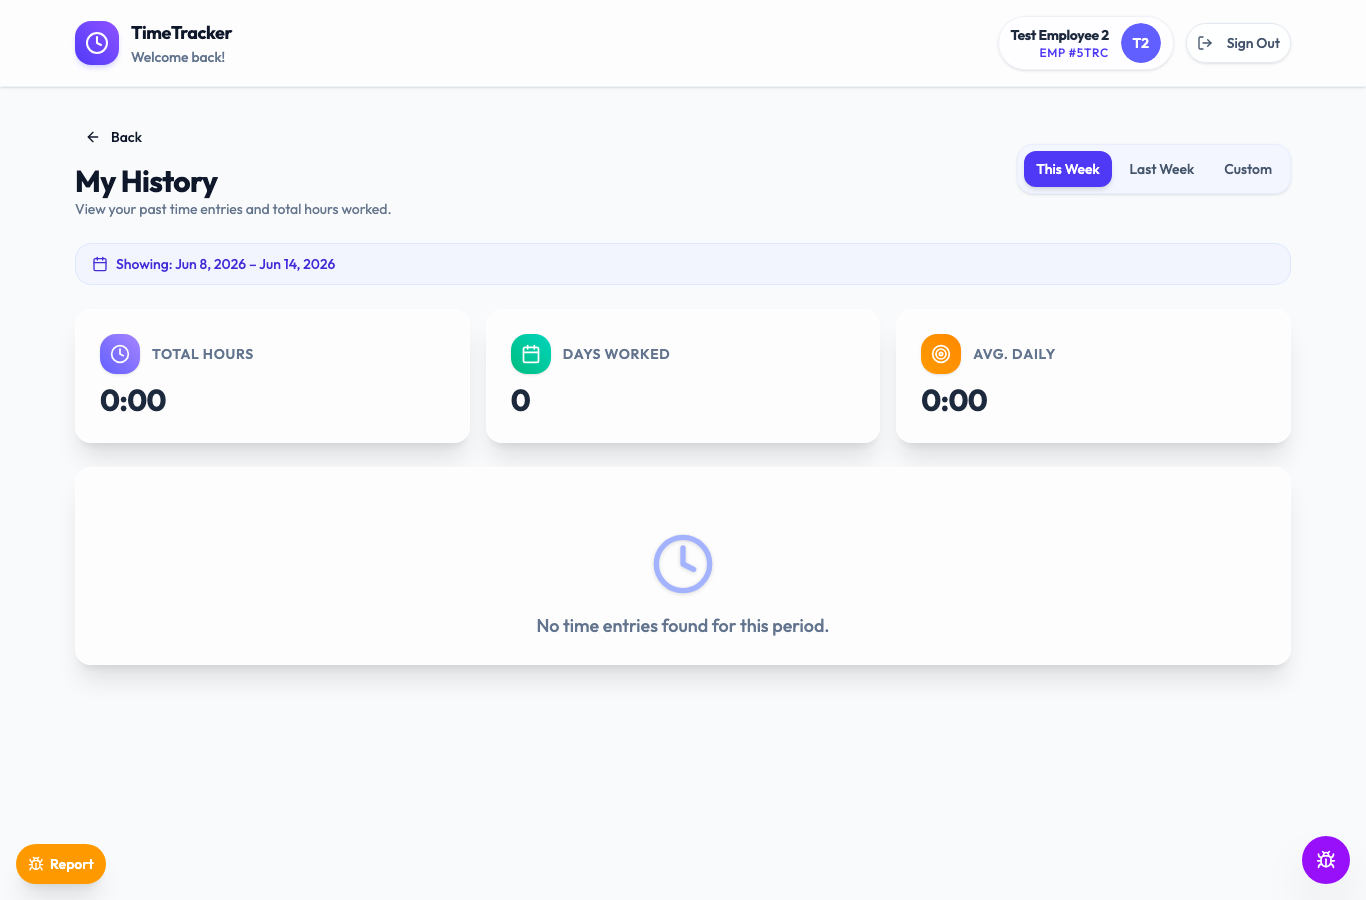
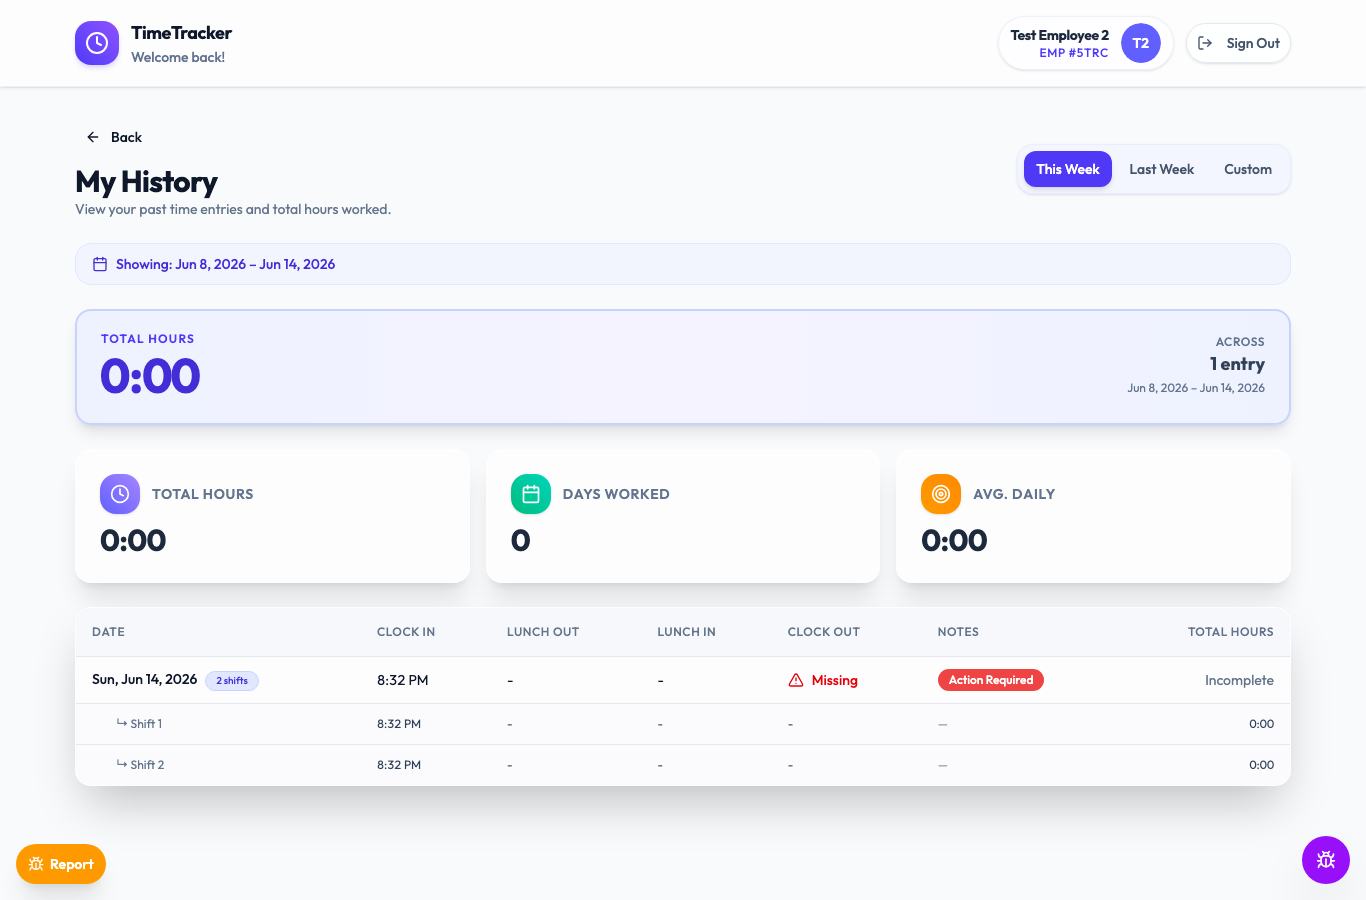
fix(clock-in+lunch+clock-out): real production bugs found by live Playwright
This is the bug that was killing pilot testing. Three distinct failures
surfaced when driving the live app at atd-time-tracking.web.app with real
Firebase Auth + Firestore + the seeded test user.

(1) CLOCK IN: 'Unsupported field value: undefined' on timeEntries
   Cause: createInitialSegment set 'taskId: taskId || undefined' and the
   punchIn payload set 'createdAt: snap.data().createdAt' (undefined
   when the doc exists but lacks the field). Firestore rejects the whole
   write on any undefined value.

(2) LUNCH START/END + CLOCK OUT: same undefined error
   Cause: mapEntry's segment hydration used 'taskId: data.taskId || undefined'
   and 'clockInManual: data.clockInManual || undefined' etc. When the
   hydrated entry was round-tripped through toggleLunch/punchOut's
   updateDoc({ segments: ... }), the archived segments (with inherited
   undefined fields) poisoned the write.

(3) Segments array grows by 1 per round-trip
   Cause: historical data (and newer writes that round-trip through
   mapEntry) accumulated multiple '${id}_current' segments. Every
   subsequent toggleLunch/punchOut read the bloated array and wrote it
   back with yet another copy, growing it by 1 per click. The
   'isIn' check then saw the LAST segment (which was complete=true
   from a prior clock-out), so the UI incorrectly showed 'CLOCK IN'
   even when the user was actually still clocked in.

Fixes:
- createInitialSegment omits taskId when not provided
[…]

Changed region(s): [[0.0615, 0.3422, 0.9531, 0.8089], [0.0615, 0.84, 0.9531, 0.9022], [0.8302, 0.3733, 0.9224, 0.4356]]

diff --git a/src/app/lib/database.ts b/src/app/lib/database.ts
@@ -1,6 +1,7 @@
 import { collection, doc, getDoc, getDocs, orderBy, query, Timestamp, updateDoc, where, limit, startAfter, deleteDoc, addDoc, setDoc } from 'firebase/firestore';
 import { db } from './firebase';
 import type { User } from './auth';
+import { stripUndefined } from './segmentOps';
 
 /**
  * A single continuous work session ("shift"). A day may contain multiple
@@ -182,43 +183,77 @@ function mapEntry(id: string, data: FirestoreTimeEntry): TimeEntry {
   // or most-recently-completed) segment lives in the legacy top-level fields.
   // Hydrated entry.segments = [...archived, current (if present)].
   const archivedRaw = Array.isArray(data.segments) ? data.segments : [];
-  const archived: TimeSegment[] = archivedRaw.map((s: any, i: number) => ({
-    id: String(s.id ?? `${id}_arch_${i}`),
-    clockInManual: s.clockInManual || undefined,
-    clockInSystem: tsToMillis(s.clockInSystemTime ?? s.clockInSystem),
-    lunchOutManual: s.lunchOutManual || undefined,
-    lunchOutSystem: tsToMillis(s.lunchOutSystemTime ?? s.lunchOutSystem),
-    lunchInManual: s.lunchInManual || undefined,
-    lunchInSystem: tsToMillis(s.lunchInSystemTime ?? s.lunchInSystem),
-    clockOutManual: s.clockOutManual || undefined,
-    clockOutSystem: tsToMillis(s.clockOutSystemTime ?? s.clockOutSystem),
-    skipLunch: s.skipLunch === true || s.lunchSkipped === true,
-    workMinutes: typeof s.workMinutes === 'number' ? s.workMinutes : undefined,
-    complete: true,
-    taskId: s.taskId || undefined,
-    autoClosed: s.autoClosed === true,
-  }));
+  const archived: TimeSegment[] = archivedRaw.map((s: any, i: number) => {
+    const out: TimeSegment = {
+      id: String(s.id ?? `${id}_arch_${i}`),
+      clockInManual: s.clockInManual || undefined,
+      clockInSystem: tsToMillis(s.clockInSystemTime ?? s.clockInSystem),
+      lunchOutManual: s.lunchOutManual || undefined,
+      lunchOutSystem: tsToMillis(s.lunchOutSystemTime ?? s.lunchOutSystem),
+      lunchInManual: s.lunchInManual || undefined,
+      lunchInSystem: tsToMillis(s.lunchInSystemTime ?? s.lunchInSystem),
+      clockOutManual: s.clockOutManual || undefined,
+      clockOutSystem: tsToMillis(s.clockOutSystemTime ?? s.clockOutSystem),
+      skipLunch: s.skipLunch === true || s.lunchSkipped === true,
+      workMinutes: typeof s.workMinutes === 'number' ? s.workMinutes : undefined,
+      complete: true,
+      autoClosed: s.autoClosed === true,
+    };
+    if (s.taskId) (out as any).taskId = s.taskId; // omit when not set; never write undefined
+    return out;
+  });
 
   const current: TimeSegment | null = entry.clockInManual
-    ? {
-        id: `${id}_current`,
-        clockInManual: entry.clockInManual,
-        clockInSystem: entry.clockInSystem,
-        lunchOutManual: entry.lunchOutManual,
-        lunchOutSystem: entry.lunchOutSystem,
-        lunchInManual: entry.lunchInManual,
-        lunchInSystem: entry.lunchInSystem,
-        clockOutManual: entry.clockOutManual,
-        clockOutSystem: entry.clockOutSystem,
-        skipLunch: entry.skipLunch,
-        workMinutes: deriveCurrentSegmentMinutes(entry, archived),
-        complete: !!entry.clockOutManual,
-        taskId: data.taskId || undefined,
-        autoClosed: data.autoClosed === true,
-      }
+    ? (() => {
+        // Build the current segment WITHOUT undefined fields. Firestore rejects
+        // any field with value `undefined`; if this segment is later written
+        // back to the document (e.g. via toggleLunch's updateDoc), the whole
+        // write fails. We use stripUndefined on the entry-derived fields then
+        // force-include the always-present ones.
+        const fromEntry: any = {
+          clockInManual: entry.clockInManual,
+          clockInSystem: entry.clockInSystem,
+          lunchOutManual: entry.lunchOutManual,
+          lunchOutSystem: entry.lunchOutSystem,
+          lunchInManual: entry.lunchInManual,
+          lunchInSystem: entry.lunchInSystem,
+          clockOutManual: entry.clockOutManual,
+          clockOutSystem: entry.clockOutSystem,
+          skipLunch: entry.skipLunch,
+          workMinutes: deriveCurrentSegmentMinutes(entry, archived),
+        };
+        const out: TimeSegment = {
+          id: `${id}_current`,
+          complete: !!entry.clockOutManual,
+          autoClosed: data.autoClosed === true,
+          ...stripUndefined(fromEntry),
+        };
+        if (data.taskId) (out as any).taskId = data.taskId; // omit when not set
+        return out;
+      })()
     : null;
 
-  entry.segments = current ? [...archived, current] : archived;
+  // DEDUP: historical data has accumulated multiple `${id}_current` segments
+  // because older versions of the code (and writes that round-trip through this
+  // same mapEntry) appended a new current segment on every read. If we keep all
+  // of them, every subsequent write to `segments` grows the array by one copy,
+  // and Firestore's "no undefined" check fires because some legacy segments
+  // don't have the fields our newer code expects. Keep only one segment per id,
+  // preferring the LAST occurrence (most recent data).
+  const dedup = (segs: TimeSegment[]): TimeSegment[] => {
+    const byId = new Map<string, TimeSegment>();
+    for (const s of segs) byId.set(s.id, s);
+    return Array.from(byId.values());
+  };
+
+  if (current) {
+    // Remove any pre-existing _current segment from the archived list (legacy data
+    // may have it there), then append the fresh one.
+    const archivedClean = archived.filter((s) => s.id !== `${id}_current`);
+    entry.segments = dedup([...archivedClean, current]);
+  } else {
+    entry.segments = dedup(archived);
+  }
 
   // Override day-level hours to include all archived segments too.
   if (archived.length > 0) {

diff --git a/src/services/clockService.ts b/src/services/clockService.ts
@@ -150,7 +150,7 @@ export async function punchOut(userId: string): Promise<TimeEntry> {
 
   // Write closed legacy + replace the open segment in the array with the closed one
   const archived = (pre?.segments || []).filter((s) => s.id !== active.id);
-  const finalSegments = [...archived, closedSeg];
+  const finalSegments = [...archived, closedSeg].map((s) => stripUndefined(s as any));
 
   await updateDoc(doc(db, 'timeEntries', entryId), {
     clockOutManual: ptTime,
@@ -210,7 +210,7 @@ export async function toggleLunch(userId: string, skip = false): Promise<TimeEnt
 
   // Rebuild segments array with the updated one
   const newSegments = (pre?.segments || []).map((s) =>
-    s.id === active.id ? updatedSeg : s
+    s.id === active.id ? stripUndefined(updatedSeg as any) : stripUndefined(s as any)
   );
   patch.segments = newSegments;
 

diff --git a/test-artifacts/e2e_live.py b/test-artifacts/e2e_live.py
@@ -1,0 +1,178 @@
+"""End-to-end: full shift → history → payroll report with real data.
+
+Drives the ClockPunch UI through the entire shift:
+  1. Log in as employee2, clock in
+  2. Start lunch, end lunch
+  3. Clock out
+  4. Verify History view shows the completed entry
+  5. Log out, log in as admin, generate a payroll report for the current week
+  6. Verify the report shows employee2's hours
+"""
+from __future__ import annotations
+import json, sys, time
+from pathlib import Path
+from playwright.sync_api import sync_playwright, TimeoutError as PWTimeout
+
+ART = Path(__file__).parent
+SHOTS = ART / "e2e"
+SHOTS.mkdir(exist_ok=True)
+BASE = "https://atd-time-tracking.web.app"
+RESULTS = {"passed": 0, "failed": 0, "results": []}
+
+def rec(name, passed, detail="", shot=None):
+    status = "PASS" if passed else "FAIL"
+    RESULTS["results"].append({"name": name, "status": status, "detail": detail, "screenshot": shot})
+    RESULTS["passed" if passed else "failed"] += 1
+    print(f"  {status} | {name} -- {detail}")
+
+def login(page, email, password):
+    page.goto(BASE, wait_until="load", timeout=30000)
+    time.sleep(2)
+    # If already signed in (no email input visible), sign out first
+    if page.locator("input[type='email']").count() == 0:
+        try:
+            page.get_by_role("button", name="Sign Out").first.click(timeout=5000)
+            time.sleep(3)
+        except Exception:
+            pass
+    page.wait_for_selector("input[type='email']", timeout=15000)
+    page.fill("input[type='email']", email)
+    page.fill("input[type='password']", password)
+    page.click("button[type='submit']")
+    page.wait_for_function(
+        "() => !document.querySelector('input[type=\"email\"]')",
+        timeout=20000,
+    )
+    time.sleep(2)
+
+def run():
+    with sync_playwright() as p:
+        br = p.chromium.launch(headless=True)
+        ctx = br.new_context(viewport={"width": 1366, "height": 900})
+        page = ctx.new_page()
+        errs = []
+        page.on("pageerror", lambda e: errs.append(str(e)[:300]))
+
+        print("\n========== EMPLOYEE: full shift ==========")
+        login(page, "employee2@test.com", "Test123!")
+        # If already clocked in (from prior test), clock out first
+        try:
+            clock_out_btn = page.get_by_role("button", name="CLOCK OUT")
+            if clock_out_btn.count() > 0:
+                clock_out_btn.first.click(timeout=5000)
+                time.sleep(3)
+        except Exception:
+            pass
+        # Click CLOCK IN
+        try:
+            page.get_by_role("button", name="CLOCK IN").first.click(timeout=10000)
+            time.sleep(3)
+        except Exception as e:
+            rec("CLOCK IN click", False, f"exception: {e}")
+        shot = "01_after_clock_in.png"
+        page.screenshot(path=str(SHOTS / shot), full_page=True)
+        rec("CLOCK IN", page.locator("text=CLOCKED IN").count() > 0, "status pill", shot)
+
+        # Start lunch
+        try:
+            page.get_by_role("button", name="START LUNCH").first.click(timeout=5000)
+            time.sleep(3)
+            shot = "02_lunch_started.png"
+            page.screenshot(path=str(SHOTS / shot), full_page=True)
+            rec("START LUNCH", page.locator("text=ON LUNCH").count() > 0 or page.locator("text=CLOCKED IN").count() > 0, "lunch state", shot)
+        except Exception as e:
+            rec("START LUNCH", False, f"button not found: {e}")
+
+        # End lunch
+        try:
+            page.get_by_role("button", name="END LUNCH").first.click(timeout=5000)
+            time.sleep(3)
+            shot = "03_lunch_ended.png"
+            page.screenshot(path=str(SHOTS / shot), full_page=True)
+            rec("END LUNCH", True, "clicked", shot)
+        except Exception as e:
+            rec("END LUNCH", False, f"exception: {e}")
+
+        # Clock out
+        try:
+            page.get_by_role("button", name="CLOCK OUT").first.click(timeout=5000)
+            time.sleep(3)
+            shot = "04_after_clock_out.png"
+            page.screenshot(path=str(SHOTS / shot), full_page=True)
+            rec("CLOCK OUT", True, "clicked", shot)
+        except Exception as e:
+            rec("CLOCK OUT", False, f"exception: {e}")
+
+        # View history
+        try:
+            page.get_by_role("button", name="View Full History").first.click(timeout=5000)
+            time.sleep(3)
+            shot = "05_history.png"
+            page.screenshot(path=str(SHOTS / shot), full_page=True)
+            # Look for today's date row
+            today_text = page.locator("body").inner_text()
+            rec("History view renders", "Today" in today_text or "History" in today_text, "history loaded", shot)
+        except Exception as e:
+            rec("History view", False, f"exception: {e}")
+
+        rec("No page errors during full shift", len(errs) == 0, f"errors={len(errs)}")
+
+        # Now log out + log in as admin
+        print("\n========== ADMIN: payroll with the new entry ==========")
+        page.goto(BASE, wait_until="load", timeout=20000)
+        time.sleep(2)
+        try:
+            page.get_by_role("button", name="Sign Out").first.click(timeout=5000)
+            time.sleep(3)
+        except Exception:
+            pass
+        login(page, "admin@test.com", "Test123!")
+
+        # Go to Payroll
+        page.get_by_role("tab", name="Payroll").first.click()
+        time.sleep(3)
+        shot = "06_payroll_initial.png"
+        page.screenshot(path=str(SHOTS / shot), full_page=True)
+
+        # Click "This Week" or "Current" preset
+        try:
+            page.get_by_role("button", name="Current Week").first.click(timeout=5000)
+            time.sleep(2)
+            shot = "07_payroll_current_week.png"
+            page.screenshot(path=str(SHOTS / shot), full_page=True)
+            rec("Payroll: Current Week preset", True, "clicked", shot)
+        except Exception:
+            # try other labels
+            try:
+                page.get_by_role("button", name="Current").first.click(timeout=3000)
+                time.sleep(2)
+                rec("Payroll: Current preset", True, "clicked")
+            except Exception as e:
+                rec("Payroll: Quick preset", False, f"no preset button found: {e}")
+
+        # Generate Report
+        try:
+            page.get_by_role("button", name="Generate Report").first.click(timeout=10000)
+            time.sleep(5)
+            shot = "08_payroll_generated.png"
+            page.screenshot(path=str(SHOTS / shot), full_page=True)
+            body = page.locator("body").inner_text()
+            has_data = "Test Employee 2" in body or "employee2" in body
+            rec("Payroll report renders with employee data", has_data, f"employee2 visible={has_data}", shot)
+        except Exception as e:
+            rec("Payroll: Generate Report", False, f"exception: {e}")
+
+        br.close()
+
+    out = ART / "e2e-results.json"
+    out.write_text(json.dumps({
+        "summary": {"passed": RESULTS["passed"], "failed": RESULTS["failed"], "total": RESULTS["passed"] + RESULTS["failed"]},
+        "results": RESULTS["results"],
+    }, indent=2))
+    print(f"\n{'='*60}")
+    print(f"E2E RESULTS: {RESULTS['passed']} pass / {RESULTS['failed']} fail")
+    print(f"Screenshots: {SHOTS}")
+    return 0 if RESULTS["failed"] == 0 else 1
+
+if __name__ == "__main__":
+    sys.exit(run())
